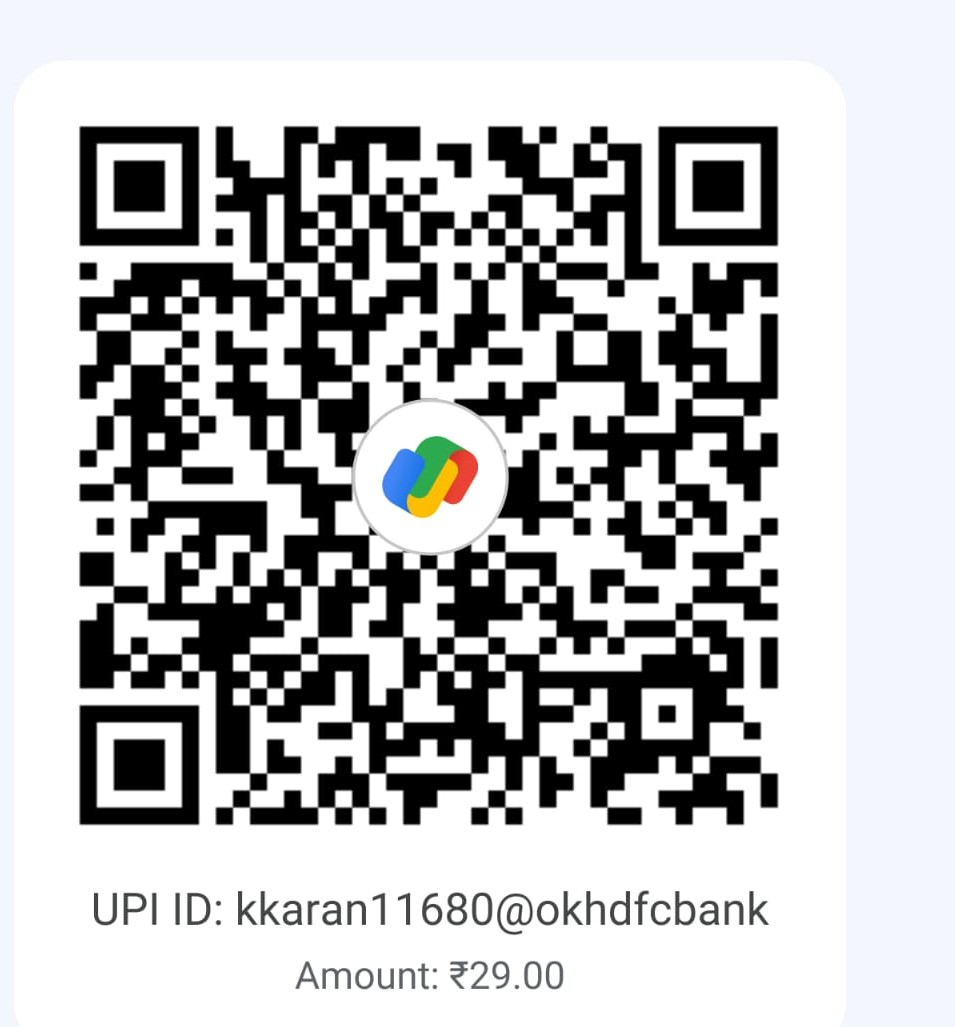
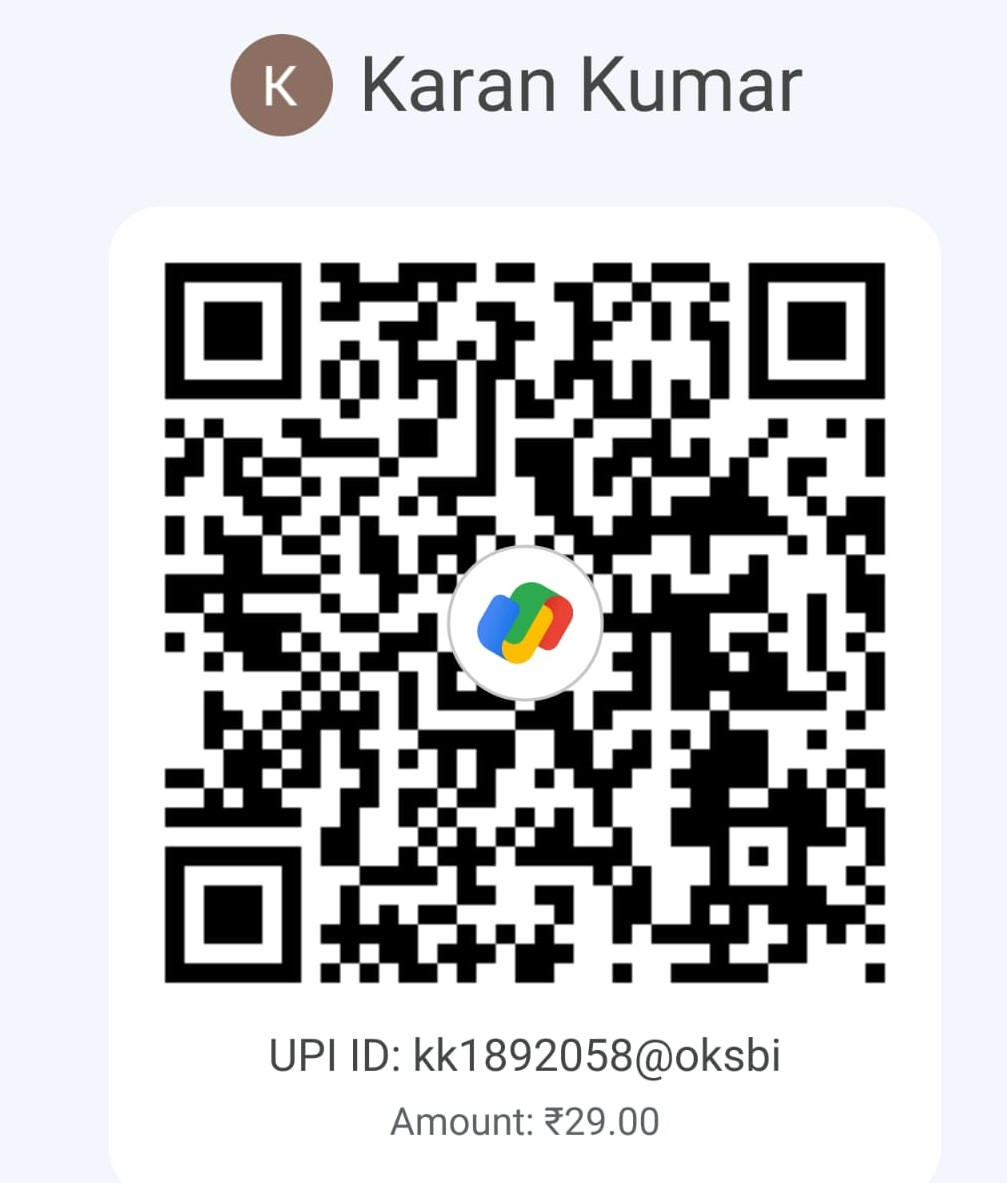
Update UPI ID in supabaseClient.ts for payment processing

diff --git a/lib/supabaseClient.ts b/lib/supabaseClient.ts
@@ -10,7 +10,7 @@ export {
 } from "./event-config";
 
 /** Your UPI ID for payments (e.g. yourname@paytm / phonepe). Displayed on registration page. */
-export const UPI_ID = "kkaran11680@okhdfcbank"; // TODO: replace with your UPI ID
+export const UPI_ID = "kk1892058@oksbi"; // TODO: replace with your UPI ID
 
 /** Support contact shown on the registration page (Need Help section). */
 export const SUPPORT_CONTACT_NAME = "Event Support";
